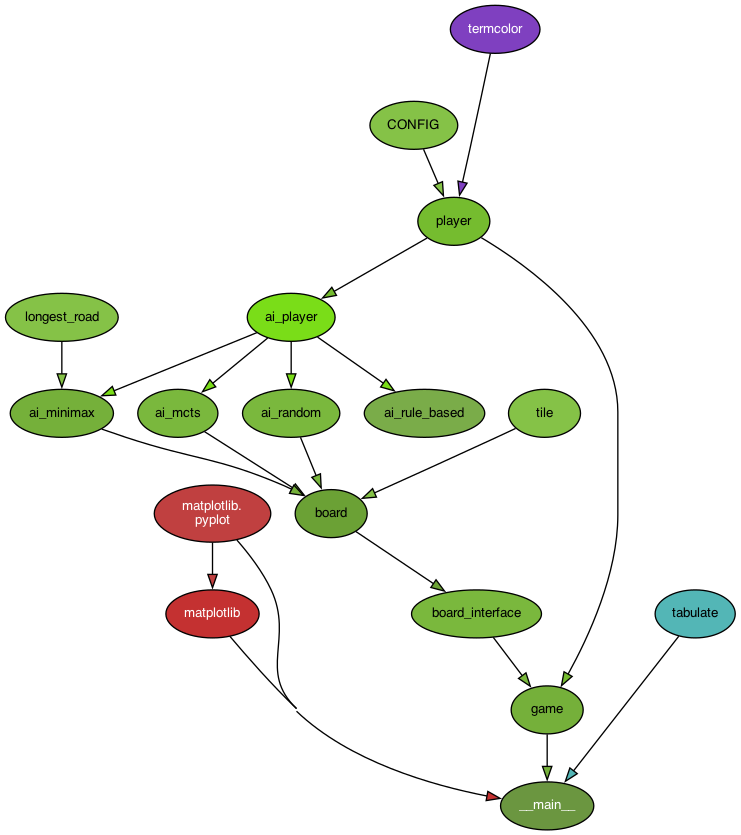
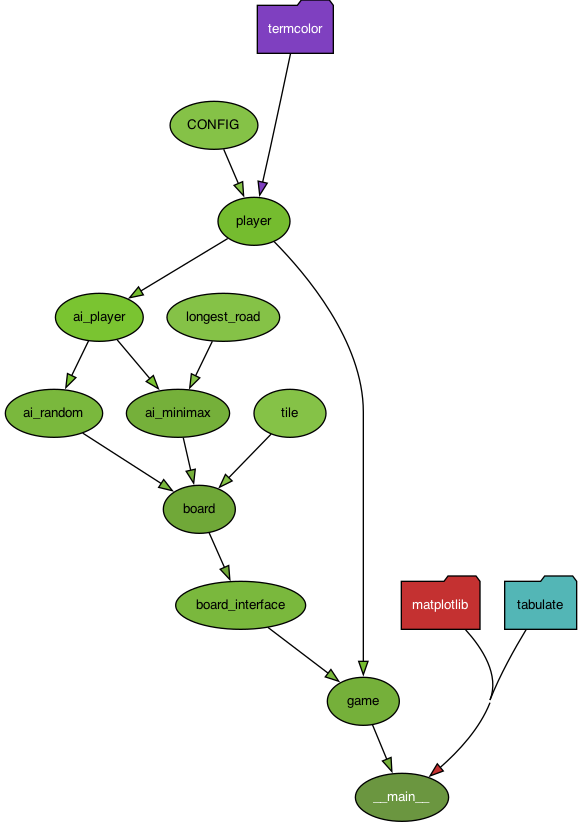
Started Writing Report

diff --git a/src/board.py b/src/board.py
@@ -1,7 +1,6 @@
 import src.ai_minimax
 from src.ai_minimax import *
 from src.ai_random import *
-from src.ai_mcts import *
 import random
 from src.tile import tile
 

diff --git a/src/ai_mcts.py b/src/ai_mcts.py
@@ -1,4 +1,4 @@
-from src.ai_player import ai_player
+# from src.ai_player import ai_player
 
 
 class ai_mcts(ai_player):
